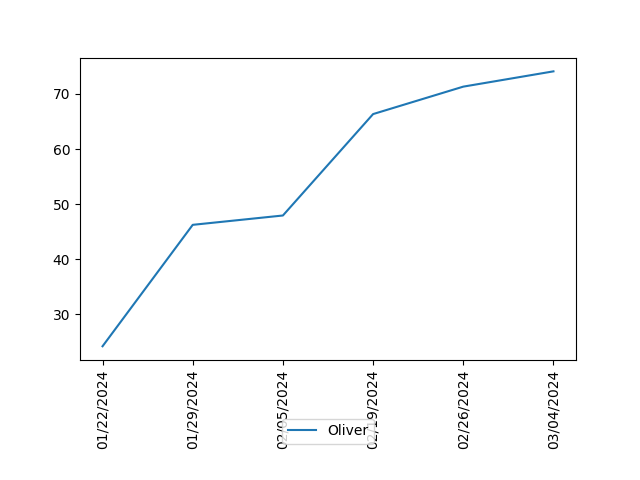
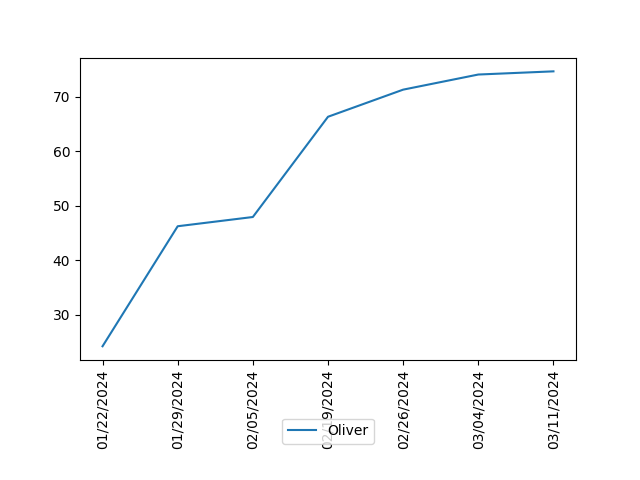
update rankings

diff --git a/parse_results.py b/parse_results.py
@@ -8,7 +8,7 @@ LUCK_FACTORS = {
         'Exploding Kittens': 10.0,
         'What do you Meme': 10.0,
         'Incan Gold': 10.0,
-        'Secret Princess': 5.0,
+        'Love Letter': 5.0,
         'No Thanks': 5.0,
         'Coup' : 3.0,
         'Camel Up': 3.0,

diff --git a/README.md b/README.md
@@ -5,20 +5,23 @@
 
 | Player | ELO | Wins | Losses | Win % | Best Game |
 | --- | --- | --- | --- | --- | --- |
-| Oliver | 74.09 | 7 | 13 | 35% | Coup |
+| Oliver | 74.67 | 8 | 16 | 33% | Coup |
 | Jelita | 68.93 | 4 | 3 | 57% | Avalon |
 | Simon | 64.22 | 4 | 0 | 100% | Avalon |
+| Peter | 61.46 | 7 | 7 | 50% | Secret Hitler |
+| Jovan | 58.68 | 3 | 2 | 60% | Coup |
 | Abhi | 56.81 | 3 | 1 | 75% | Avalon |
-| Peter | 55.79 | 5 | 5 | 50% | Bang |
-| Leo | 50.47 | 4 | 11 | 27% | Codenames |
-| Jovan | 50.14 | 1 | 1 | 50% | Coup |
+| Susan | 55.70 | 2 | 2 | 50% | Codenames |
+| Clarys | 54.85 | 2 | 0 | 100% | Love Letter |
 | Kazumi | 49.30 | 1 | 6 | 14% | Camel Up |
+| Leo | 47.95 | 5 | 13 | 28% | Codenames |
 | Dan | 47.41 | 2 | 2 | 50% | Wavelength |
 | Kenny | 45.05 | 1 | 1 | 50% | No Thanks |
-| Siri | 42.92 | 1 | 1 | 50% | Secret Princess |
 | Aaron | 40.33 | 1 | 2 | 33% | Bang |
 | Sincere | 40.28 | 3 | 8 | 27% | Coup |
+| Siri | 39.66 | 1 | 3 | 25% | Love Letter |
 | Harsha | 39.59 | 2 | 3 | 40% | Wavelength |
+| Queenie | 39.46 | 2 | 4 | 33% | Codenames |
 | Viktoria | 38.48 | 0 | 3 | 0% | No Thanks |
 | Julie | 32.58 | 0 | 1 | 0% | Incan Gold |
 | Rebecca | 29.07 | 0 | 1 | 0% | Avalon |
@@ -26,7 +29,6 @@
 | Vivienne | 24.36 | 0 | 1 | 0% | Codenames |
 | Trista | 22.60 | 0 | 3 | 0% | Bang |
 | JustinKhoo | 20.36 | 1 | 3 | 25% | Incan Gold |
-| Queenie | 19.61 | 0 | 3 | 0% | Avalon |
 
 ### Rankings over Time
 ![Image](rankings.png)
@@ -79,31 +81,39 @@
 
 | Player | ELO | Wins | Losses | Win % |
 | --- | --- | --- | --- | --- |
-| Peter | 42.57  | 1 | 0 | 100% |
+| Peter | 50.96  | 2 | 0 | 100% |
 | Simon | 42.57  | 1 | 0 | 100% |
 | Jelita | 42.57  | 1 | 0 | 100% |
-| Leo | 42.57  | 1 | 0 | 100% |
-| Oliver | 27.53  | 0 | 1 | 0% |
+| Jovan | 42.22  | 1 | 0 | 100% |
+| Susan | 42.22  | 1 | 0 | 100% |
+| Queenie | 42.22  | 1 | 0 | 100% |
+| Clarys | 42.22  | 1 | 0 | 100% |
+| Leo | 37.32  | 1 | 1 | 50% |
+| Siri | 27.85  | 0 | 1 | 0% |
 | Kazumi | 27.53  | 0 | 1 | 0% |
 | Aaron | 27.53  | 0 | 1 | 0% |
 | Trista | 27.53  | 0 | 1 | 0% |
 | Daphne | 27.53  | 0 | 1 | 0% |
+| Oliver | 22.28  | 0 | 2 | 0% |
 
 ### Codenames
 
 | Player | ELO | Wins | Losses | Win % |
 | --- | --- | --- | --- | --- |
-| Oliver | 46.12  | 2 | 1 | 67% |
+| Oliver | 54.10  | 3 | 2 | 60% |
+| Leo | 45.87  | 2 | 1 | 67% |
 | Jelita | 43.90  | 1 | 0 | 100% |
 | Kazumi | 43.90  | 1 | 0 | 100% |
-| Leo | 43.90  | 1 | 0 | 100% |
+| Queenie | 43.81  | 1 | 1 | 50% |
+| Susan | 43.81  | 1 | 1 | 50% |
 | Harsha | 42.43  | 1 | 1 | 50% |
 | Dan | 42.43  | 1 | 1 | 50% |
 | Sincere | 35.95  | 1 | 1 | 50% |
+| Jovan | 35.72  | 1 | 1 | 50% |
+| Peter | 29.05  | 1 | 2 | 33% |
 | Vivienne | 27.08  | 0 | 1 | 0% |
 | Aaron | 27.08  | 0 | 1 | 0% |
 | Trista | 27.08  | 0 | 1 | 0% |
-| Peter | 27.08  | 0 | 1 | 0% |
 | JustinKhoo | 17.86  | 0 | 2 | 0% |
 
 ### Wavelength
@@ -116,14 +126,17 @@
 | Sincere | 26.51  | 0 | 1 | 0% |
 | JustinKhoo | 26.51  | 0 | 1 | 0% |
 
-### Secret Princess
+### Love Letter
 
 | Player | ELO | Wins | Losses | Win % |
 | --- | --- | --- | --- | --- |
+| Clarys | 44.56  | 1 | 0 | 100% |
+| Siri | 41.95  | 1 | 1 | 50% |
 | Leo | 41.37  | 1 | 0 | 100% |
-| Siri | 41.37  | 1 | 0 | 100% |
+| Susan | 34.84  | 0 | 1 | 0% |
+| Peter | 34.84  | 0 | 1 | 0% |
+| Oliver | 33.33  | 0 | 2 | 0% |
 | Kazumi | 31.49  | 0 | 1 | 0% |
-| Oliver | 31.49  | 0 | 1 | 0% |
 
 ### Camel Up
 
